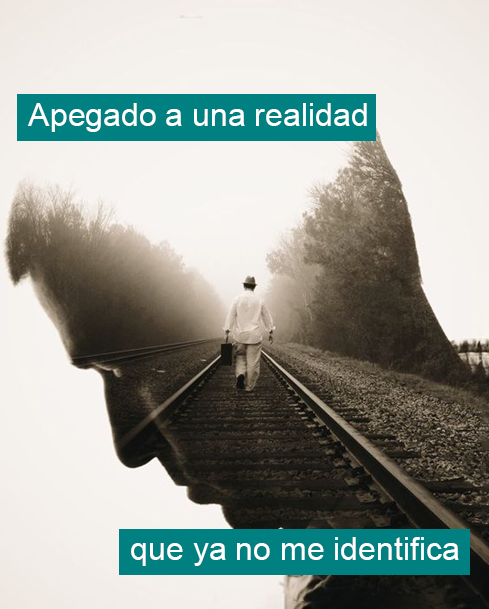
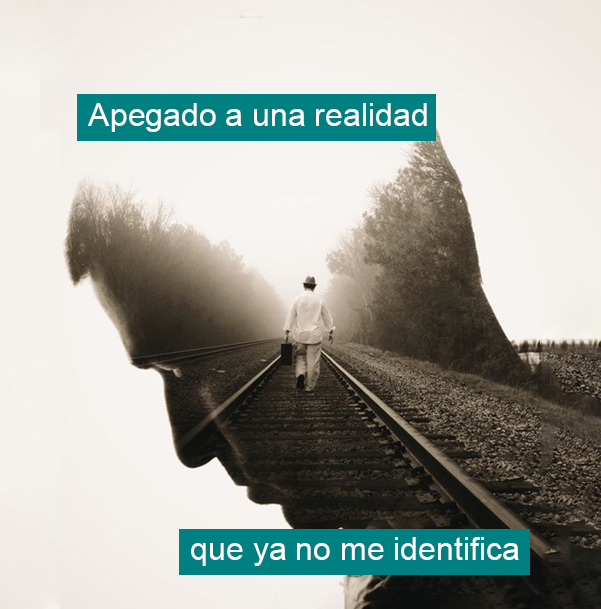
Ajustes en algunas imágenes y en footer

Changed region(s): [[0.0, 0.156, 1.0, 1.0], [0.4908, 0.4368, 0.5215, 0.4992], [0.8896, 0.9984, 0.9202, 1.0]]

diff --git a/src/components/Footer/Footer.jsx b/src/components/Footer/Footer.jsx
@@ -7,8 +7,8 @@ export default function Footer() {
   return (
     <footer id="contacto">
       <Container>
-        <h2>Hablemos</h2>
-        <p>Recibo consultas. ¡Tu pregunta es bienvenida!</p>
+        <h2>Contacto</h2>
+        <p>Recibo consultas. Tu pregunta es bienvenida.</p>
         <p>Destinado a personas en edad adulta y adolescente.</p>
         <ul className="mt-4 mb-4">
           <li className="d-flex tamara-name">
